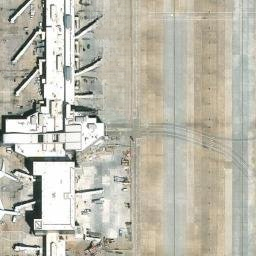
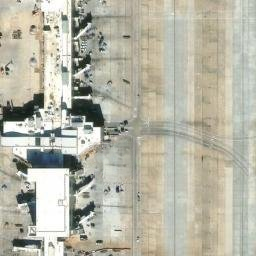
docs: update inpainting report for KATL + add complexity baseline backlog

diff --git a/.planning/backlog/complexity-baseline.md b/.planning/backlog/complexity-baseline.md
@@ -1,0 +1,78 @@
+---
+status: backlog
+area: code-quality
+priority: low
+related:
+  - .planning/audits/
+---
+
+# Cyclomatic Complexity Baseline
+
+**Captured:** 2026-05-23
+**Tool:** radon 6.0.1
+**Scope:** `src/` + `app/backend/`
+
+## Summary
+
+| Metric | Value |
+|--------|-------|
+| Total blocks analyzed | 1,618 |
+| Average complexity | **C (19.9)** |
+| A+B grade (good) | 1,453 (89.8%) |
+| C grade (moderate) | 126 (7.8%) |
+| D grade (high) | 20 (1.2%) |
+| E grade (very high) | 9 (0.6%) |
+| F grade (unmaintainable) | 10 (0.6%) |
+
+## F-Grade Functions (CC > 40)
+
+| Function | CC | File:Line |
+|----------|-----|-----------|
+| `_update_flight_state` | 219 | `src/ingestion/_flight_lifecycle.py:767` |
+| `generate_synthetic_trajectory` | 91 | `src/ingestion/_generation.py:650` |
+| `generate_synthetic_flights` | 70 | `src/ingestion/_generation.py:343` |
+| `get_flights_as_schedule` | 55 | `src/ingestion/_generation.py:165` |
+| `parse_otp_prezip` | 55 | `src/calibration/bts_ingest.py:568` |
+| `OpenSkyEventInferrer.process_frame` | 46 | `src/inference/opensky_events.py:190` |
+| `_execute_tool` | 44 | `app/backend/api/mcp.py:394` |
+| `_create_new_flight` | 42 | `src/ingestion/_flight_lifecycle.py:418` |
+| `SimulationRecorder.compute_summary` | 41 | `src/simulation/recorder.py:141` |
+| `_load_recording_from_raw` | 41 | `app/backend/api/opensky.py:1041` |
+
+## E-Grade Functions (CC 31-40)
+
+| Function | CC | File:Line |
+|----------|-----|-----------|
+| `_taxi_speed_factor` | 35 | `src/ingestion/_runway_ops.py:462` |
+| `build_profile_from_openflights` | 34 | `src/calibration/openflights_ingest.py:249` |
+| `SimulationEngine._update_all_flights` | 34 | `src/simulation/engine.py:666` |
+| `get_simulation_data` | 34 | `app/backend/api/simulation.py:746` |
+| `clean_tile` | 34 | `app/backend/api/inpainting.py:352` |
+| `build_profile_from_bts` | 32 | `src/calibration/bts_ingest.py:188` |
+| `_format_run` | 32 | `app/backend/api/simulation_jobs.py:152` |
+| `generate_daily_schedule` | 24 | `src/ingestion/schedule_generator.py:702` |
+| `auto_calibrate_airport` | 29 | `src/calibration/auto_calibrate.py:140` |
+
+## Maintainability Index (worst files)
+
+| File | MI Grade | Score |
+|------|----------|-------|
+| `app/backend/api/opensky.py` | C | 0.00 |
+| `app/backend/services/lakebase_service.py` | C | 0.00 |
+| `app/backend/api/routes_airport.py` | C | 8.12 |
+| `app/backend/api/simulation.py` | B | 10.05 |
+| `app/backend/api/simulation_jobs.py` | B | 11.64 |
+
+## Refactoring Priority
+
+1. **`_update_flight_state` (CC=219)** — god-function, state machine with 219 decision paths. Split into phase-specific handlers.
+2. **`_generation.py` (3 F-grade)** — trajectory/flight generation monoliths. Extract per-phase generators.
+3. **`_execute_tool` (CC=44)** — MCP tool dispatcher. Convert to dispatch table pattern.
+4. **`_load_recording_from_raw` (CC=41)** — recording parser with many format branches. Strategy pattern.
+
+## Goal
+
+Next capture target (after refactoring top offenders):
+- Average: B (< 15)
+- F-grade: 0
+- E-grade: < 5

diff --git a/reports/inpainting/report.md b/reports/inpainting/report.md
@@ -1,20 +1,12 @@
 # Inpainting Test Results
 
-- **Airports tested:** 9
-- **Success:** 9 | **Errors:** 0 | **Cache hits:** 0
-- **Total aircraft detected:** 34
-- **Avg latency:** 94338ms | **Avg processing:** 94338ms
+- **Airports tested:** 1
+- **Success:** 1 | **Errors:** 0 | **Cache hits:** 0
+- **Total aircraft detected:** 1
+- **Avg latency:** 2752ms | **Avg processing:** 1215ms
 
 ## Per-Airport Results
 
 | Airport | IATA | Status | Cache | Aircraft | Latency |
 |---------|------|--------|-------|----------|---------|
-| EDDF | FRA | ok | DIRECT | 5 | 167834ms |
-| EGLL | LHR | ok | DIRECT | 1 | 5078ms |
-| KATL | ATL | ok | DIRECT | 4 | 166851ms |
-| KJFK | JFK | ok | DIRECT | 7 | 5401ms |
-| KLAX | LAX | ok | DIRECT | 3 | 164718ms |
-| KORD | ORD | ok | DIRECT | 2 | 5111ms |
-| KSFO | SFO | ok | DIRECT | 8 | 165755ms |
-| RJAA | NRT | ok | DIRECT | 1 | 163251ms |
-| VHHH | HKG | ok | DIRECT | 3 | 5047ms |
+| KATL | ATL | ok | MISS | 1 | 2752ms |